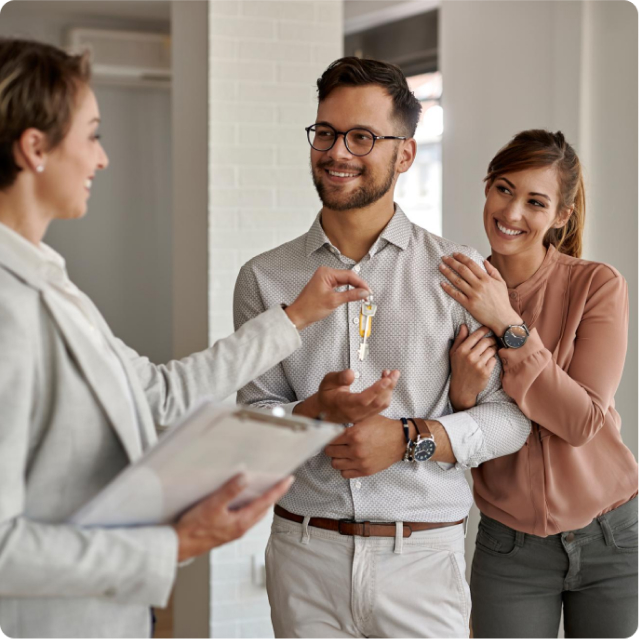
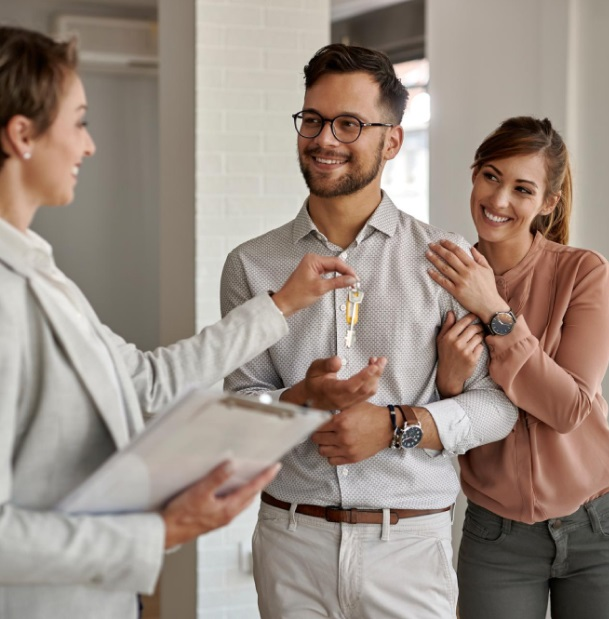
new commit

diff --git a/index.html b/index.html
@@ -361,28 +361,30 @@
     <section class="local-expertise rounded-custom">
         <div class="container">
             <div class="row">
-                <div class="col-6">
+                <div class="col-6 mb-5 mt-5">
                     <div class="local-expertise-image">
                         <div class="local-expertise-image-tag">
                             <i class="local-expertise-image-tag-icon"></i>
                             <div>
                             <span>Total Clients</span>
-                            <b>7.000M </b>
+                            <b>7.000M</b>
                             </div>
                         </div>
                         <img src="assets/img/local-expertise/localexpertise.jpg" alt="expertise">
                     </div>
                 </div>
-            </div>
-            <div class="col-5 ms-auto d-flex flex-column justify-content-center">
-            <div class="fs-3 fw-semibold text-white">Local expertise for
-                luxury homes</div>
-                <p class="text-white">Pellentesque egestas elementum egestas faucibus sem. Velit nunc egestas ut
-                    morbi. Leo diam diam nibh eget fermentum massa pretium. Mi mauris nulla ac
-                    dictum ut mauris non.
-                </p>
-                <button class="btn-main-gold btn-main-gold-arrow">Learn More</button>
-            </div>
+                <div class="col-5 ms-auto d-flex flex-column justify-content-center">
+                    <div class="fs-3 fw-semibold text-white">
+                        Local expertise for <br>
+                        luxury homes
+                    </div>
+                        <p class="text-white">Pellentesque egestas elementum egestas faucibus sem. Velit nunc egestas ut
+                            morbi. Leo diam diam nibh eget fermentum massa pretium. Mi mauris nulla ac
+                            dictum ut mauris non.
+                        </p>
+                        <button class="btn-main-gold btn-main-gold-arrow">Learn More</button>
+                    </div>
+            </div>        
         </div>
 
     </section>

diff --git a/assets/css/style.css b/assets/css/style.css
@@ -269,7 +269,7 @@
         position: relative;
     }
 
-    .local-expertise-image-img{
+    .local-expertise-image img {
         border-radius: 20px;
     }
 
